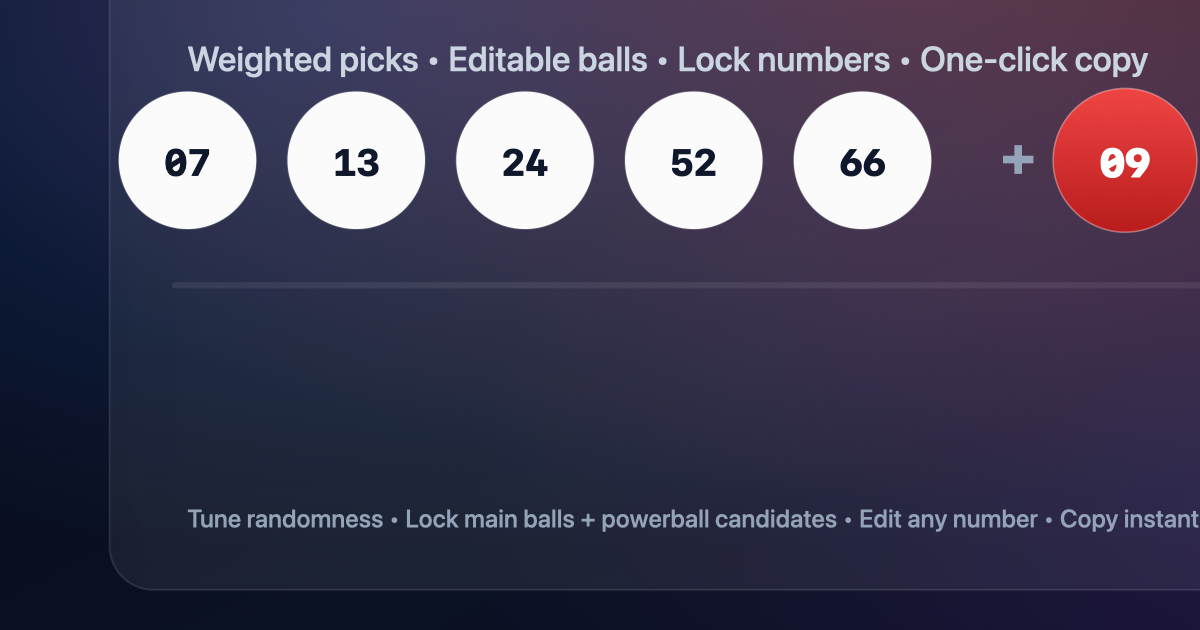
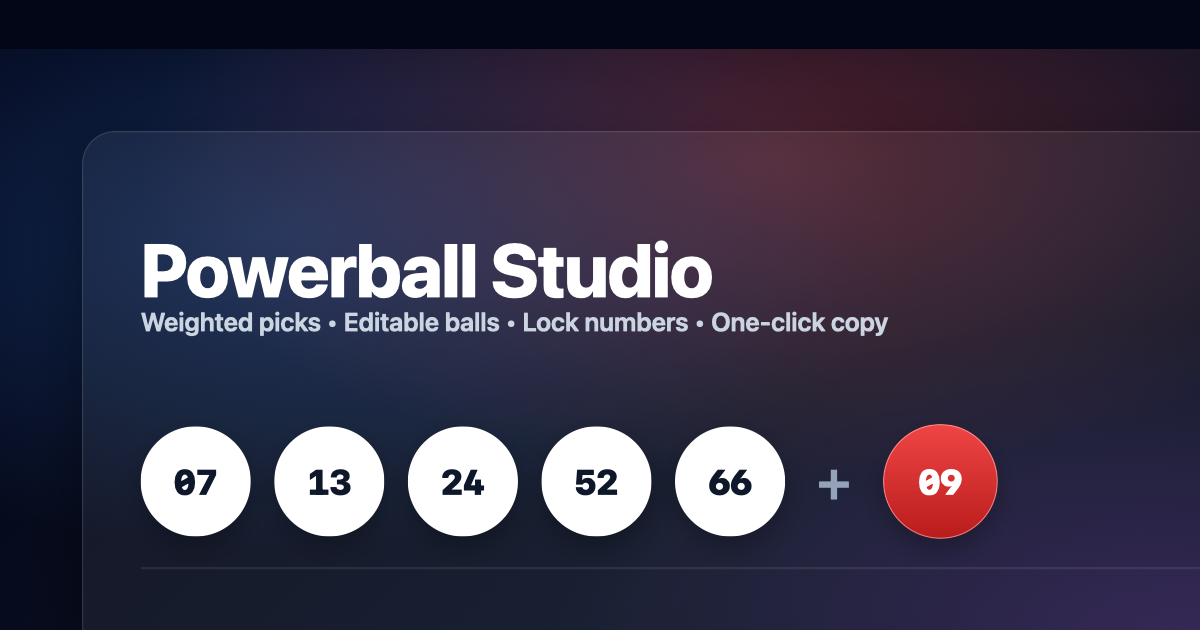
regen og image

diff --git a/public/og-image-source.html b/public/og-image-source.html
@@ -1,0 +1,175 @@
+<!DOCTYPE html>
+<html lang="en">
+  <head>
+    <meta charset="utf-8" />
+    <meta name="viewport" content="width=device-width, initial-scale=1" />
+    <title>Powerball Studio OG</title>
+    <style>
+      /* This file is only used to generate public/og-image.png in a deterministic way. */
+      html,
+      body {
+        margin: 0;
+        padding: 0;
+        width: 1200px;
+        height: 1200px; /* QuickLook thumbnails are square; we place a 1200x630 frame at the top. */
+        overflow: hidden;
+        background: #020617;
+        display: flex;
+        align-items: center; /* center the 1200x630 frame within the square render */
+        justify-content: center;
+      }
+
+      .frame {
+        position: relative;
+        width: 1200px;
+        height: 630px;
+        overflow: hidden;
+      }
+
+      .bg {
+        position: absolute;
+        inset: 0;
+        background: radial-gradient(
+            900px 450px at 20% 25%,
+            rgba(59, 130, 246, 0.25),
+            transparent 60%
+          ),
+          radial-gradient(
+            900px 450px at 55% 15%,
+            rgba(239, 68, 68, 0.3),
+            transparent 60%
+          ),
+          radial-gradient(
+            900px 450px at 85% 80%,
+            rgba(168, 85, 247, 0.22),
+            transparent 60%
+          ),
+          linear-gradient(135deg, #020617, #0b1224 55%, #020617);
+      }
+
+      .panel {
+        position: absolute;
+        left: 70px;
+        top: 70px;
+        right: 70px;
+        bottom: 70px;
+        border-radius: 28px;
+        background: rgba(255, 255, 255, 0.06);
+        border: 1px solid rgba(255, 255, 255, 0.12);
+        box-shadow: 0 18px 60px rgba(0, 0, 0, 0.45);
+      }
+
+      .title {
+        position: absolute;
+        left: 120px;
+        top: 150px;
+        font-family: ui-sans-serif, system-ui, -apple-system, Segoe UI, Roboto,
+          Helvetica, Arial;
+        font-size: 64px;
+        font-weight: 800;
+        color: #fff;
+        letter-spacing: -0.02em;
+      }
+
+      .sub {
+        position: absolute;
+        left: 120px;
+        top: 220px;
+        font-family: ui-sans-serif, system-ui, -apple-system, Segoe UI, Roboto,
+          Helvetica, Arial;
+        font-size: 22px;
+        font-weight: 600;
+        color: #cbd5e1;
+      }
+
+      .row {
+        position: absolute;
+        left: 120px;
+        top: 320px;
+        display: flex;
+        align-items: center;
+        gap: 20px;
+      }
+
+      .ball {
+        width: 92px;
+        height: 92px;
+        border-radius: 999px;
+        display: flex;
+        align-items: center;
+        justify-content: center;
+        font-family: ui-monospace, SFMono-Regular, Menlo, Monaco, Consolas,
+          Liberation Mono, monospace;
+        font-size: 30px;
+        font-weight: 900;
+        box-shadow: 0 10px 24px rgba(0, 0, 0, 0.25);
+      }
+
+      .main {
+        background: #fff;
+        color: #0f172a;
+        border: 1px solid rgba(255, 255, 255, 0.18);
+      }
+
+      .plus {
+        color: #94a3b8;
+        font-size: 48px;
+        font-weight: 800;
+        margin: 0 8px;
+      }
+
+      .pb {
+        background: linear-gradient(#ef4444, #b91c1c);
+        color: #fff;
+        border: 1px solid rgba(254, 202, 202, 0.55);
+        width: 96px;
+        height: 96px;
+      }
+
+      .rule {
+        position: absolute;
+        left: 120px;
+        right: 120px;
+        top: 442px;
+        height: 2px;
+        background: rgba(255, 255, 255, 0.08);
+        border-radius: 2px;
+      }
+
+      .foot {
+        position: absolute;
+        left: 120px;
+        top: 505px;
+        font-family: ui-sans-serif, system-ui, -apple-system, Segoe UI, Roboto,
+          Helvetica, Arial;
+        font-size: 16px;
+        font-weight: 600;
+        color: #94a3b8;
+      }
+    </style>
+  </head>
+  <body>
+    <div class="frame">
+      <div class="bg"></div>
+      <div class="panel"></div>
+      <div class="title">Powerball Studio</div>
+      <div class="sub">
+        Weighted picks • Editable balls • Lock numbers • One‑click copy
+      </div>
+      <div class="row">
+        <div class="ball main">07</div>
+        <div class="ball main">13</div>
+        <div class="ball main">24</div>
+        <div class="ball main">52</div>
+        <div class="ball main">66</div>
+        <div class="plus">+</div>
+        <div class="ball pb">09</div>
+      </div>
+      <div class="rule"></div>
+      <div class="foot">
+        Tune randomness • Lock main balls + powerball candidates • Edit any
+        number • Copy instantly
+      </div>
+    </div>
+  </body>
+</html>
